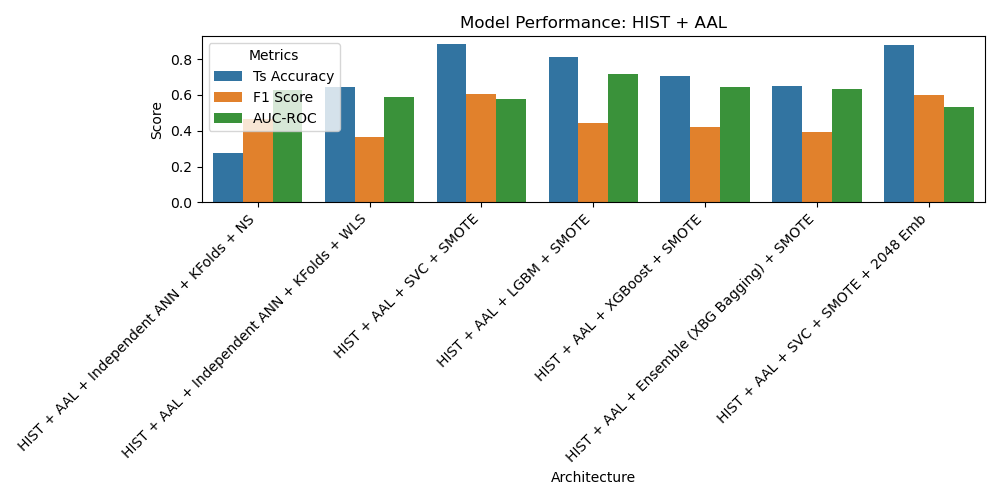
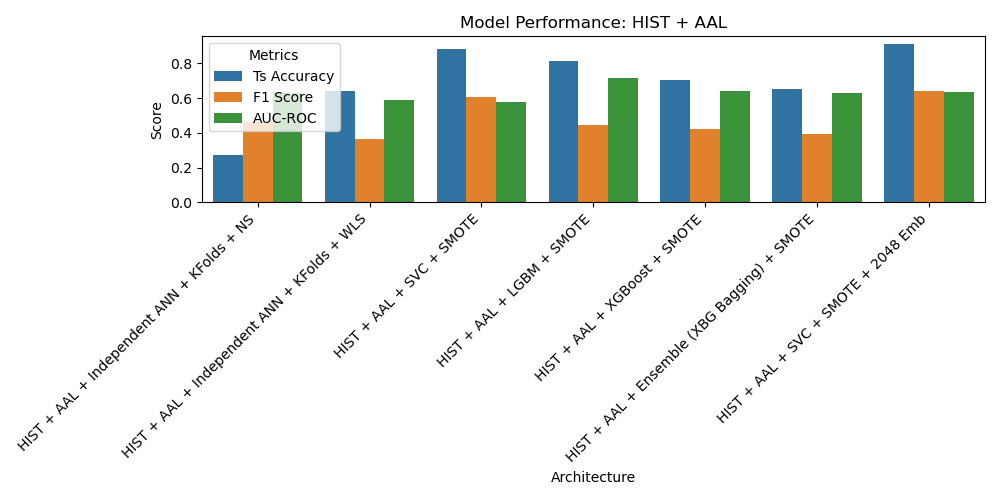
update metrics

diff --git a/README.md b/README.md
@@ -123,50 +123,50 @@ To address the challenge of data imbalance, we employed SVM-SMOTE and SMOTE tech
 
 ## Metrics
 
-|     | Architecture                                     | Ts Accuracy | F1 Score | AUC-ROC |
-| --: | :----------------------------------------------- | :---------- | :------- | :------ |
-|   0 | HIST + ResNet50 + Independent ANN + KFolds + NS  | 46.60%      | 37.80%   | 60.00%  |
-|   1 | HIST + AAL + Independent ANN + KFolds + NS       | 27.50%      | 46.40%   | 62.80%  |
-|   2 | HIST + ResNet50 + Independent ANN + KFolds + WLS | 40.80%      | 47.50%   | 63.30%  |
-|   3 | HIST + AAL + Independent ANN + KFolds + WLS      | 64.20%      | 36.50%   | 58.90%  |
-|   4 | HIST + MN152 + Independent ANN + KFolds + NS     | 47.50%      | 33.10%   | 55.40%  |
-|   5 | HIST + MN152 + Independent ANN + KFolds + WLS    | 56.00%      | 32.90%   | 56.70%  |
-|   6 | GSL + ResNet50 + Independent ANN + KFolds + NS   | 50.20%      | 34.40%   | 57.50%  |
-|   7 | GSL + AAL + Independent ANN + KFolds + NS        | 27.80%      | 46.30%   | 61.90%  |
-|   8 | GSL + ResNet50 + Independent ANN + KFolds + WLS  | 27.40%      | 33.80%   | 58.00%  |
-|   9 | GSL + AAL + Independent ANN + KFolds + WLS       | 61.00%      | 45.80%   | 61.50%  |
-|  10 | GSL + MN152 + Independent ANN + KFolds + NS      | 48.90%      | 31.90%   | 55.90%  |
-|  11 | GSL + MN152 + Independent ANN + KFolds + WLS     | 46.90%      | 31.60%   | 57.50%  |
-|  12 | HIST + ResNet50 + SVC + SMOTE                    | 91.95%      | 61.90%   | 62.95%  |
-|  13 | HIST + AAL + SVC + SMOTE                         | 88.30%      | 60.70%   | 57.64%  |
-|  14 | HIST + ResNet50 + LGBM + SMOTE                   | 78.03%      | 45.59%   | 67.32%  |
-|  15 | HIST + AAL + LGBM + SMOTE                        | 81.31%      | 44.24%   | 71.42%  |
-|  16 | HIST + ResNet50 + XGBoost + SMOTE                | 64.48%      | 39.08%   | 62.60%  |
-|  17 | HIST + AAL + XGBoost + SMOTE                     | 70.52%      | 42.16%   | 64.23%  |
-|  18 | HIST + ResNet50 + Ensemble (XBG Bagging) + SMOTE | 53.94%      | 34.53%   | 60.29%  |
-|  19 | HIST + AAL + Ensemble (XBG Bagging) + SMOTE      | 64.96%      | 39.23%   | 63.09%  |
-|  20 | HIST + MN152 + SVC + SMOTE                       | 89.50%      | 54.75%   | 46.91%  |
-|  21 | HIST + MN152 + LGBM + SMOTE                      | 79.84%      | 43.07%   | 64.13%  |
-|  22 | HIST + MN152 + XGBoost + SMOTE                   | 62.51%      | 38.06%   | 61.03%  |
-|  23 | HIST + MN152 + Ensemble (XBG Bagging) + SMOTE    | 50.53%      | 32.11%   | 58.10%  |
-|  24 | GSL + ResNet50 + SVC + SMOTE                     | 92.21%      | 53.45%   | 61.25%  |
-|  25 | GSL + AAL + SVC + SMOTE                          | 88.70%      | 61.92%   | 62.96%  |
-|  26 | GSL + ResNet50 + LGBM + SMOTE                    | 77.59%      | 45.78%   | 65.84%  |
-|  27 | GSL + AAL + LGBM + SMOTE                         | 81.41%      | 45.48%   | 69.60%  |
-|  28 | GSL + ResNet50 + XGBoost + SMOTE                 | 63.75%      | 40.52%   | 62.54%  |
-|  29 | GSL + AAL + XGBoost + SMOTE                      | 70.90%      | 43.70%   | 62.89%  |
-|  30 | GSL + ResNet50 + Ensemble (XBG Bagging) + SMOTE  | 52.86%      | 34.16%   | 60.97%  |
-|  31 | GSL + AAL + Ensemble (XBG Bagging) + SMOTE       | 65.20%      | 39.93%   | 64.30%  |
-|  32 | GSL + MN152 + SVC + SMOTE                        | 88.53%      | 53.17%   | 49.79%  |
-|  33 | GSL + MN152 + LGBM + SMOTE                       | 79.81%      | 44.40%   | 65.84%  |
-|  34 | GSL + MN152 + XGBoost + SMOTE                    | 61.96%      | 38.01%   | 62.86%  |
-|  35 | GSL + MN152 + Ensemble (XBG Bagging) + SMOTE     | 49.81%      | 32.57%   | 59.15%  |
-|  36 | HIST + ResNet50 + SVC + SMOTE + 2048 Emb         | nan         | nan      | nan     |
-|  37 | HIST + AAL + SVC + SMOTE + 2048 Emb              | 88.02%      | 60.09%   | 53.37%  |
-|  38 | HIST + MN152 + SVC + SMOTE + 2048 Emb            | 90.94%      | 64.20%   | 63.60%  |
-|  39 | GSL + ResNet50 + SVC + SMOTE + 2048 Emb          | 88.30%      | 59.71%   | 51.60%  |
-|  40 | GSL + AAL + SVC + SMOTE + 2048 Emb               | 88.95%      | 63.10%   | 65.03%  |
-|  41 | GSL + MN152 + SVC + SMOTE + 2048 Emb             | 91.04%      | 62.80%   | 62.71%  |
+| Architecture                                     | Ts Accuracy | F1 Score | AUC-ROC |
+| :----------------------------------------------- | :---------- | :------- | :------ |
+| HIST + ResNet50 + Independent ANN + KFolds + NS  | 46.60%      | 37.80%   | 60.00%  |
+| HIST + AAL + Independent ANN + KFolds + NS       | 27.50%      | 46.40%   | 62.80%  |
+| HIST + ResNet50 + Independent ANN + KFolds + WLS | 40.80%      | 47.50%   | 63.30%  |
+| HIST + AAL + Independent ANN + KFolds + WLS      | 64.20%      | 36.50%   | 58.90%  |
+| HIST + MN152 + Independent ANN + KFolds + NS     | 47.50%      | 33.10%   | 55.40%  |
+| HIST + MN152 + Independent ANN + KFolds + WLS    | 56.00%      | 32.90%   | 56.70%  |
+| GSL + ResNet50 + Independent ANN + KFolds + NS   | 50.20%      | 34.40%   | 57.50%  |
+| GSL + AAL + Independent ANN + KFolds + NS        | 27.80%      | 46.30%   | 61.90%  |
+| GSL + ResNet50 + Independent ANN + KFolds + WLS  | 27.40%      | 33.80%   | 58.00%  |
+| GSL + AAL + Independent ANN + KFolds + WLS       | 61.00%      | 45.80%   | 61.50%  |
+| GSL + MN152 + Independent ANN + KFolds + NS      | 48.90%      | 31.90%   | 55.90%  |
+| GSL + MN152 + Independent ANN + KFolds + WLS     | 46.90%      | 31.60%   | 57.50%  |
+| HIST + ResNet50 + SVC + SMOTE                    | 91.95%      | 61.90%   | 62.95%  |
+| HIST + AAL + SVC + SMOTE                         | 88.30%      | 60.70%   | 57.64%  |
+| HIST + ResNet50 + LGBM + SMOTE                   | 78.03%      | 45.59%   | 67.32%  |
+| HIST + AAL + LGBM + SMOTE                        | 81.31%      | 44.24%   | 71.42%  |
+| HIST + ResNet50 + XGBoost + SMOTE                | 64.48%      | 39.08%   | 62.60%  |
+| HIST + AAL + XGBoost + SMOTE                     | 70.52%      | 42.16%   | 64.23%  |
+| HIST + ResNet50 + Ensemble (XBG Bagging) + SMOTE | 53.94%      | 34.53%   | 60.29%  |
+| HIST + AAL + Ensemble (XBG Bagging) + SMOTE      | 64.96%      | 39.23%   | 63.09%  |
+| HIST + MN152 + SVC + SMOTE                       | 89.50%      | 54.75%   | 46.91%  |
+| HIST + MN152 + LGBM + SMOTE                      | 79.84%      | 43.07%   | 64.13%  |
+| HIST + MN152 + XGBoost + SMOTE                   | 62.51%      | 38.06%   | 61.03%  |
+| HIST + MN152 + Ensemble (XBG Bagging) + SMOTE    | 50.53%      | 32.11%   | 58.10%  |
+| GSL + ResNet50 + SVC + SMOTE                     | 92.21%      | 53.45%   | 61.25%  |
+| GSL + AAL + SVC + SMOTE                          | 88.70%      | 61.92%   | 62.96%  |
+| GSL + ResNet50 + LGBM + SMOTE                    | 77.59%      | 45.78%   | 65.84%  |
+| GSL + AAL + LGBM + SMOTE                         | 81.41%      | 45.48%   | 69.60%  |
+| GSL + ResNet50 + XGBoost + SMOTE                 | 63.75%      | 40.52%   | 62.54%  |
+| GSL + AAL + XGBoost + SMOTE                      | 70.90%      | 43.70%   | 62.89%  |
+| GSL + ResNet50 + Ensemble (XBG Bagging) + SMOTE  | 52.86%      | 34.16%   | 60.97%  |
+| GSL + AAL + Ensemble (XBG Bagging) + SMOTE       | 65.20%      | 39.93%   | 64.30%  |
+| GSL + MN152 + SVC + SMOTE                        | 88.53%      | 53.17%   | 49.79%  |
+| GSL + MN152 + LGBM + SMOTE                       | 79.81%      | 44.40%   | 65.84%  |
+| GSL + MN152 + XGBoost + SMOTE                    | 61.96%      | 38.01%   | 62.86%  |
+| GSL + MN152 + Ensemble (XBG Bagging) + SMOTE     | 49.81%      | 32.57%   | 59.15%  |
+| HIST + ResNet50 + SVC + SMOTE + 2048 Emb         | 88.02%      | 60.09%   | 53.37%  |
+| HIST + AAL + SVC + SMOTE + 2048 Emb              | 90.94%      | 64.20%   | 63.60%  |
+| HIST + MN152 + SVC + SMOTE + 2048 Emb            | 88.30%      | 59.71%   | 51.60%  |
+| GSL + ResNet50 + SVC + SMOTE + 2048 Emb          | 88.95%      | 63.10%   | 65.03%  |
+| GSL + AAL + SVC + SMOTE + 2048 Emb               | 91.04%      | 62.80%   | 62.71%  |
+| GSL + MN152 + SVC + SMOTE + 2048 Emb             | 88.60%      | 59.95%   | 53.69%  |
 
 ---
 
